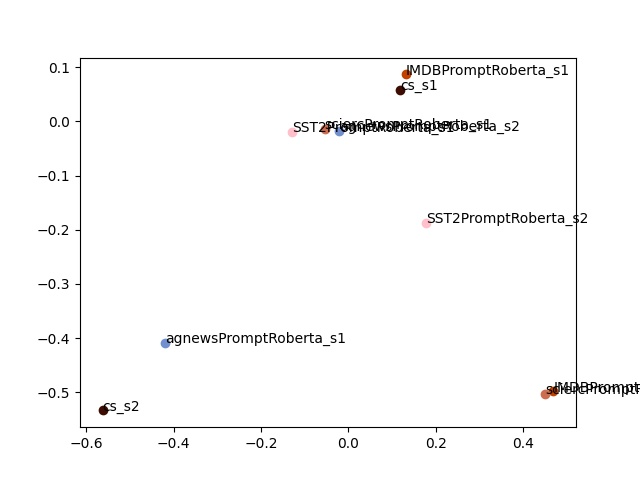
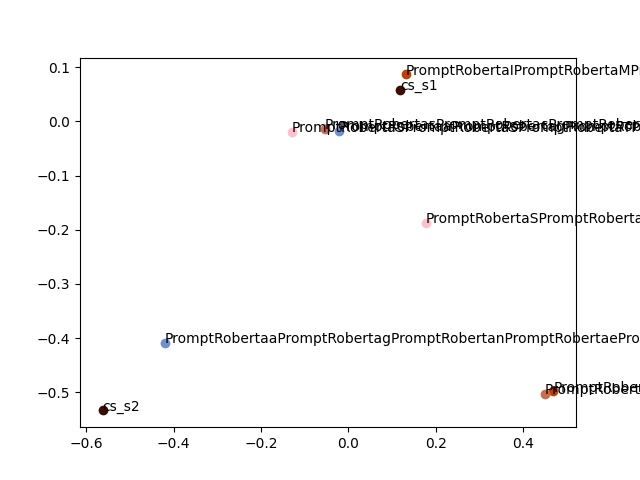
update

diff --git a/draw_cuda_mlmprompt_by_acc.py b/draw_cuda_mlmprompt_by_acc.py
@@ -81,6 +81,8 @@ for MODEL_1 in ["agnewsPromptRoberta_mlm_","cs_wikiPromptRoberta_mlm_","IMDBProm
     for S_1 in ["s1","s2"]:
 
         name_1 = MODEL_1.split("_")[0]
+        if "PromptRoberta" in name_1:
+            name_1 = name_1.replace("","PromptRoberta")
         task_map[counter] = name_1+"_"+S_1
         counter+=1
 
@@ -193,8 +195,8 @@ print("===================")
 print("===================")
 
 ##3D or 2D
-dim=3
-#dim=2
+#dim=3
+dim=2
 
 
 #PCA compress
